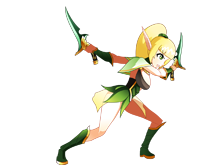
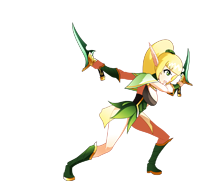
공격모션 만들기

Changed region(s): [[0.2512, 0.0303, 0.893, 1.0]]

diff --git a/ArcaneSoul/character.py b/ArcaneSoul/character.py
@@ -2,6 +2,8 @@
 
 from pico2d import get_time, load_image, load_font, clamp, SDL_KEYDOWN, SDL_KEYUP, SDLK_SPACE, SDLK_LEFT, SDLK_RIGHT, \
     draw_rectangle
+from sdl2 import SDLK_LCTRL
+
 from ball import Ball
 import game_world
 import game_framework
@@ -26,6 +28,9 @@ def left_up(e):
 
 def space_down(e):
     return e[0] == 'INPUT' and e[1].type == SDL_KEYDOWN and e[1].key == SDLK_SPACE
+
+def ctrl_down(e):
+    return e[0] == 'INPUT' and e[1].type == SDL_KEYDOWN and e[1].key == SDLK_LCTRL
 
 def time_out(e):
     return e[0] == 'TIME_OUT'
@@ -65,30 +70,83 @@ class Idle:
         boy.dir = 0
         boy.frame = 0
         # boy.wait_time = get_time() # pico2d import 필요
+        if boy.is_attack:
+            Attack.enter(boy, e)
         pass
 
     @staticmethod
     def exit(boy, e):
         # if space_down(e):
         #     boy.fire_ball()
+        if ctrl_down(e):
+            boy.is_attack = True
         pass
 
     @staticmethod
     def do(boy):
-        boy.frame = (boy.frame + FRAME_PER_TIME * game_framework.frame_time) % boy.idle_images[1]
+        if boy.is_attack:
+            Attack.do(boy)
+        else:
+            boy.frame = (boy.frame + FRAME_PER_TIME * game_framework.frame_time) % boy.idle_images[1]
         # if get_time() - boy.wait_time > 2:
         #     boy.state_machine.handle_event(('TIME_OUT', 0))
 
     @staticmethod
     def draw(boy):
-        if boy.face_dir == 1:
-            boy.idle_images[0][int(boy.frame)].composite_draw(0, '', boy.x, boy.y, 150, 270)
+        if boy.is_attack:
+            Attack.draw(boy)
         else:
-            boy.idle_images[0][int(boy.frame)].composite_draw(0, 'h', boy.x, boy.y, 150, 270)
+            if boy.face_dir == 1:
+                boy.idle_images[0][int(boy.frame)].composite_draw(0, '', boy.x, boy.y, 150, 270)
+            else:
+                boy.idle_images[0][int(boy.frame)].composite_draw(0, 'h', boy.x, boy.y, 150, 270)
 
 
 
 class Walk:
+
+    @staticmethod
+    def enter(boy, e):
+        boy.frame = 0
+        if right_down(e) or left_up(e): # 오른쪽으로 RUN
+            boy.dir, boy.face_dir = 1, 1
+        elif left_down(e) or right_up(e): # 왼쪽으로 RUN
+            boy.dir, boy.face_dir = -1, -1
+        if boy.is_attack:
+            Attack.enter(boy, e)
+
+    @staticmethod
+    def exit(boy, e):
+        # if space_down(e):
+        #     boy.fire_ball()
+        if ctrl_down(e):
+            boy.is_attack = True
+
+        pass
+
+    @staticmethod
+    def do(boy):
+        if boy.is_attack:
+            Attack.do(boy)
+        else:
+            # boy.frame = (boy.frame + 1) % 8
+            boy.x += boy.dir * RUN_SPEED_PPS * game_framework.frame_time
+            boy.x = clamp(25, boy.x, 1280-25)
+            boy.frame = (boy.frame + FRAME_PER_TIME * game_framework.frame_time) % boy.walk_images[1]
+
+
+    @staticmethod
+    def draw(boy):
+        if boy.is_attack:
+            Attack.draw(boy)
+        else:
+            if boy.face_dir == 1:
+                boy.walk_images[0][int(boy.frame)].composite_draw(0, '', boy.x, boy.y, 150, 270)
+            else:
+                boy.walk_images[0][int(boy.frame)].composite_draw(0, 'h', boy.x, boy.y, 150, 270)
+            # boy.image.clip_draw(int(boy.frame) * 100, boy.action * 100, 100, 100, boy.x, boy.y)
+
+class Attack:
 
     @staticmethod
     def enter(boy, e):
@@ -108,18 +166,17 @@ class Walk:
     @staticmethod
     def do(boy):
         # boy.frame = (boy.frame + 1) % 8
-        boy.x += boy.dir * RUN_SPEED_PPS * game_framework.frame_time
-        boy.x = clamp(25, boy.x, 1600-25)
-        boy.frame = (boy.frame + FRAME_PER_TIME * game_framework.frame_time) % boy.walk_images[1]
+        boy.frame = (boy.frame + FRAME_PER_TIME * game_framework.frame_time)
+        if boy.frame >= boy.attack_images[1] // 2:
+            boy.is_attack = False
 
 
     @staticmethod
     def draw(boy):
         if (boy.face_dir == 1):
-            boy.walk_images[0][int(boy.frame)].composite_draw(0, '', boy.x, boy.y, 150, 270)
+            boy.attack_images[0][int(boy.frame)].composite_draw(0, '', boy.x, boy.y, 324, 270)
         else:
-            boy.walk_images[0][int(boy.frame)].composite_draw(0, 'h', boy.x, boy.y, 150, 270)
-        # boy.image.clip_draw(int(boy.frame) * 100, boy.action * 100, 100, 100, boy.x, boy.y)
+            boy.attack_images[0][int(boy.frame)].composite_draw(0, 'h', boy.x, boy.y, 324, 270)
 
 
 #
@@ -154,8 +211,9 @@ class StateMachine:
         self.boy = boy
         self.cur_state = Idle
         self.transitions = {
-            Idle: {right_down: Walk, left_down: Walk, left_up: Walk, right_up: Walk, space_down: Idle},
-            Walk: {right_down: Idle, left_down: Idle, right_up: Idle, left_up: Idle, space_down: Walk}
+            Idle: {right_down: Walk, left_down: Walk, left_up: Walk, right_up: Walk, space_down: Idle, ctrl_down: Idle},
+            Walk: {right_down: Idle, left_down: Idle, right_up: Idle, left_up: Idle, space_down: Walk, ctrl_down: Walk},
+            # Attack: {time_out: Idle}
             # Sleep: {right_down: Run, left_down: Run, right_up: Run, left_up: Run}
         }
 
@@ -184,6 +242,7 @@ class StateMachine:
 
 class Boy:
     def __init__(self):
+        self.is_attack = False
         self.x, self.y = 150, 230
         self.frame = 0
         self.face_dir = 1
@@ -197,7 +256,6 @@ class Boy:
         self.font = load_font('ENCR10B.TTF', 16)
         self.state_machine = StateMachine(self)
         self.state_machine.start()
-        self.ball_count = 10
 
 
     # def fire_ball(self):
@@ -214,7 +272,7 @@ class Boy:
 
     def draw(self):
         self.state_machine.draw()
-        self.font.draw(self.x-10, self.y + 50, f'{self.ball_count:02d}', (255, 255, 0))
+        # self.font.draw(self.x-10, self.y + 50, f'{self.ball_count:02d}', (255, 255, 0))
         draw_rectangle(*self.get_bb())  # 튜플을 풀어헤쳐서 각각 인자로 전달.
 
     # fill here

diff --git a/ArcaneSoul/background.py b/ArcaneSoul/background.py
@@ -8,8 +8,8 @@ class Background:
         pass
 
     def draw(self):
-        for x in range(0, 1600, 498):
-                self.image.draw(x + 249, 450, 498, 900)
+        for x in range(0, 1280, 498):
+                self.image.draw(x + 249, 360, 498, 720)
 
 
 class Grass:
@@ -20,5 +20,5 @@ class Grass:
         pass
 
     def draw(self):
-        for x in range(0, 1600, 68):
+        for x in range(0, 1280, 68):
                 self.image.draw(x + 34, 83)

diff --git a/ArcaneSoul/main.py b/ArcaneSoul/main.py
@@ -3,7 +3,7 @@ import game_framework
 
 import play_mode as start_mode
 
-open_canvas(1600, 900)
+open_canvas(1280, 720)
 game_framework.run(start_mode)
 close_canvas()
 
